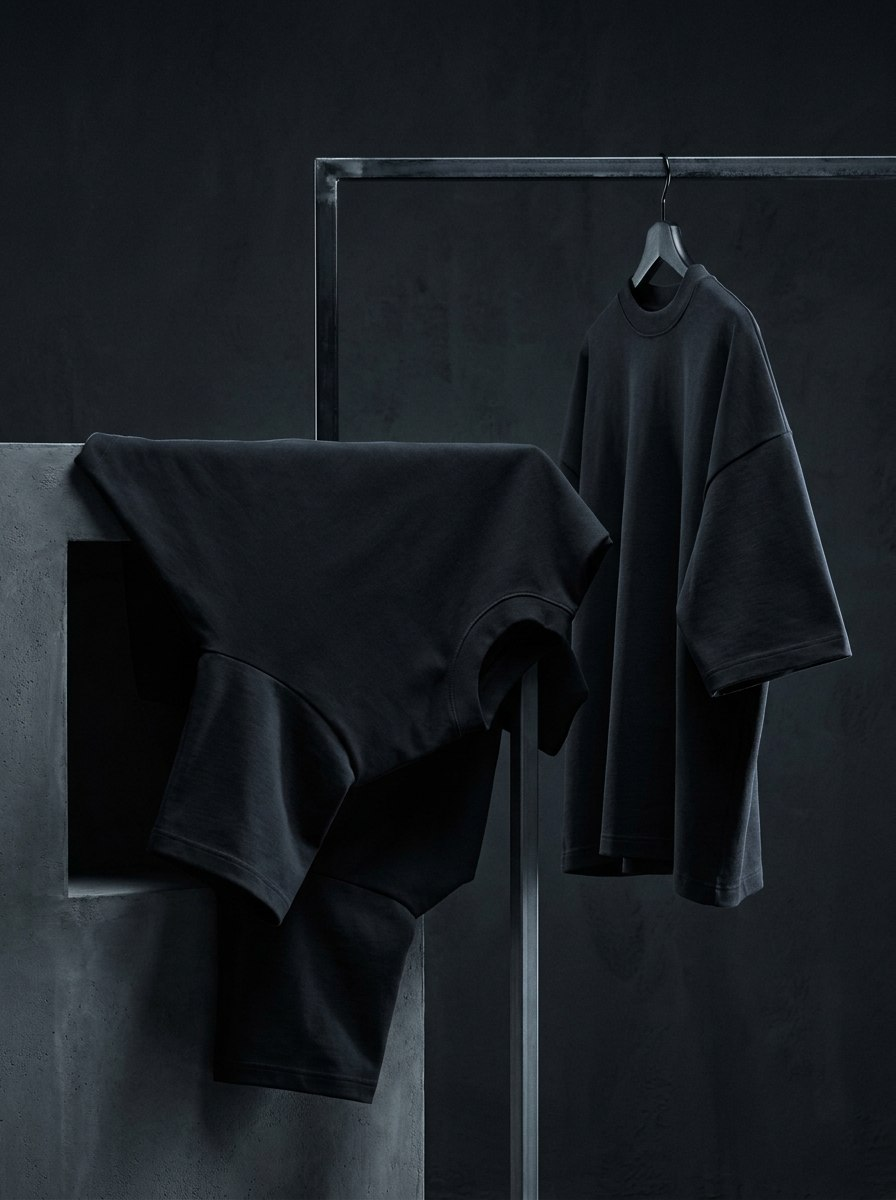
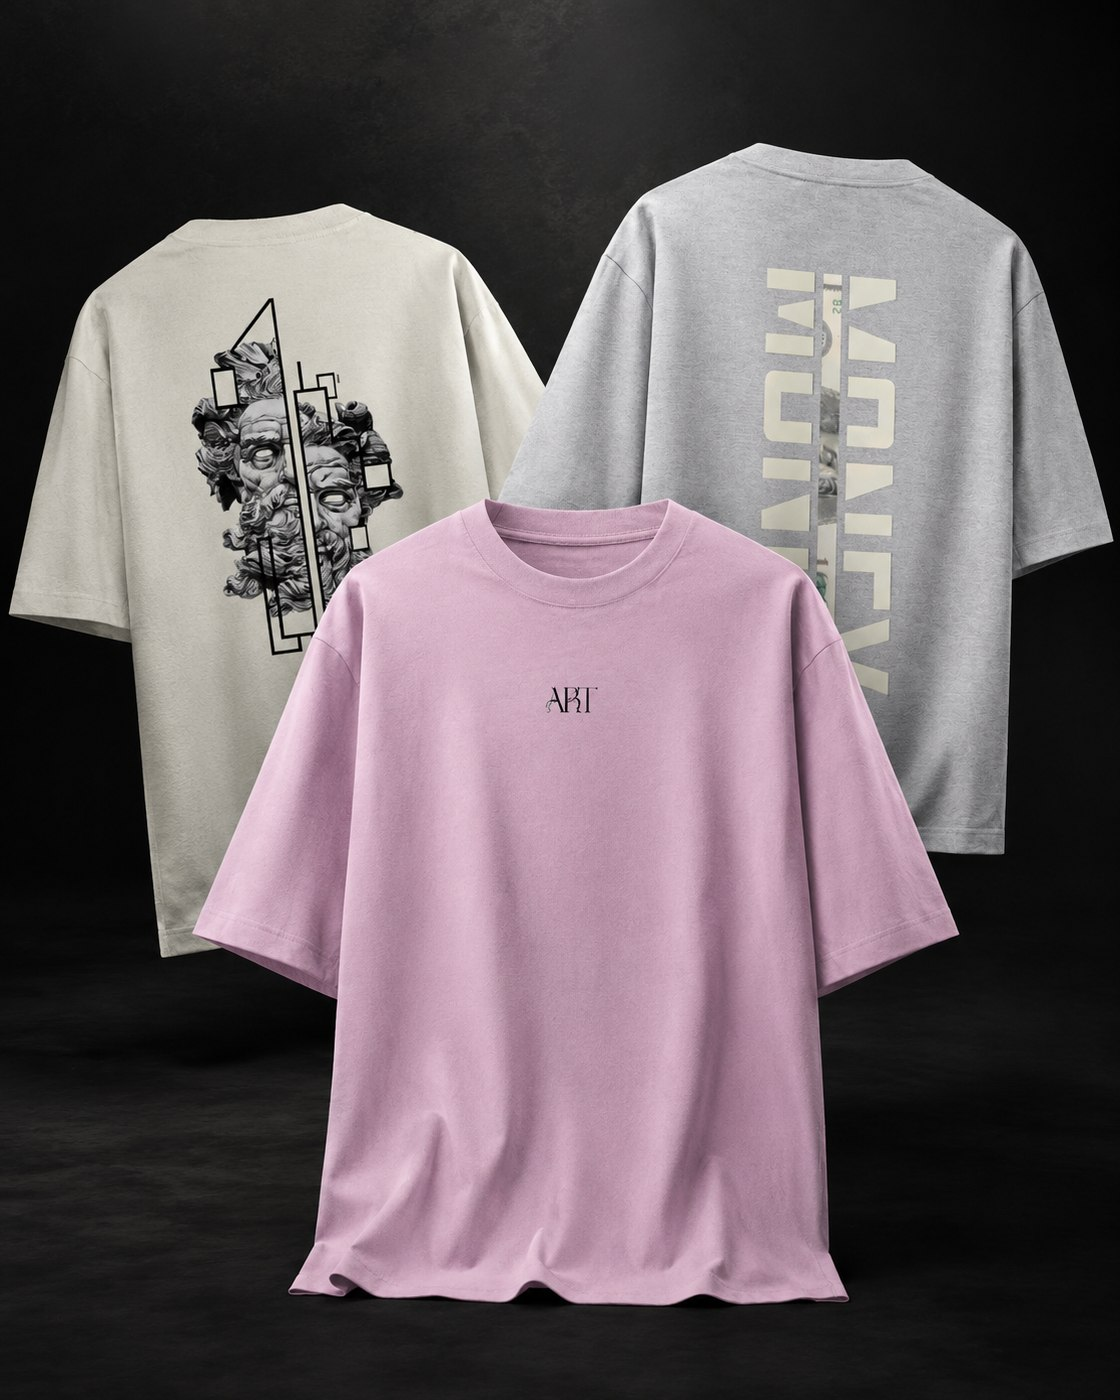
Refine collection rail and update Graphic Tees artwork

diff --git a/src/components/home/CollectionCarousel.tsx b/src/components/home/CollectionCarousel.tsx
@@ -1,6 +1,5 @@
 import Image from 'next/image';
 import Link from 'next/link';
-import { Reveal } from '@/components/motion/Reveal';
 
 type CollectionCard = {
   name: string;
@@ -22,30 +21,29 @@ export default function CollectionCarousel() {
       aria-label="Shop by collection"
       className="border-t border-graphite py-16 md:py-28"
     >
-      <div className="container-lunaro">
-        <Reveal>
-          <div className="grid grid-flow-col auto-cols-[80vw] gap-3 overflow-x-auto snap-x snap-mandatory scroll-smooth pb-1 lg:grid-flow-row lg:auto-cols-auto lg:grid-cols-5 lg:gap-3 lg:overflow-visible lg:snap-none lg:pb-0">
-            {COLLECTIONS.map((collection) => (
-              <Link
-                key={collection.href}
-                href={collection.href}
-                className="group relative block aspect-[4/5] snap-center overflow-hidden bg-charcoal"
-              >
-                <Image
-                  src={collection.image}
-                  alt={`${collection.name} collection`}
-                  fill
-                  sizes="(min-width: 1024px) 20vw, 80vw"
-                  className="object-cover transition-transform duration-[1100ms] ease-lunar group-hover:scale-[1.045]"
-                />
+      <div
+        className="flex gap-3 overflow-x-auto snap-x snap-mandatory scroll-smooth pl-5 pr-0 scroll-pl-5 sm:pl-8 sm:scroll-pl-8 lg:pl-12 lg:scroll-pl-12 [-ms-overflow-style:none] [scrollbar-width:none] [&::-webkit-scrollbar]:hidden"
+      >
+        {COLLECTIONS.map((collection, index) => (
+          <Link
+            key={collection.href}
+            href={collection.href}
+            className="group relative block aspect-[4/5] w-[82vw] shrink-0 snap-start overflow-hidden bg-charcoal sm:w-[46vw] lg:w-[28vw] lg:max-w-[420px]"
+          >
+            <Image
+              src={collection.image}
+              alt={`${collection.name} collection`}
+              fill
+              priority={index < 2}
+              sizes="(min-width: 1024px) 30vw, (min-width: 640px) 46vw, 82vw"
+              className="object-cover transition-transform duration-[1100ms] ease-lunar group-hover:scale-[1.045]"
+            />
 
-                <span className="absolute bottom-4 left-4 bg-obsidian/60 px-3 py-1.5 font-display text-lg uppercase tracking-wider2 text-lunar sm:text-xl">
-                  {collection.name}
-                </span>
-              </Link>
-            ))}
-          </div>
-        </Reveal>
+            <span className="absolute bottom-4 left-4 font-display text-lg uppercase tracking-wider2 text-lunar [filter:drop-shadow(0_2px_8px_rgba(0,0,0,0.85))] sm:bottom-5 sm:left-5 sm:text-xl lg:bottom-6 lg:left-6">
+              {collection.name}
+            </span>
+          </Link>
+        ))}
       </div>
     </section>
   );
